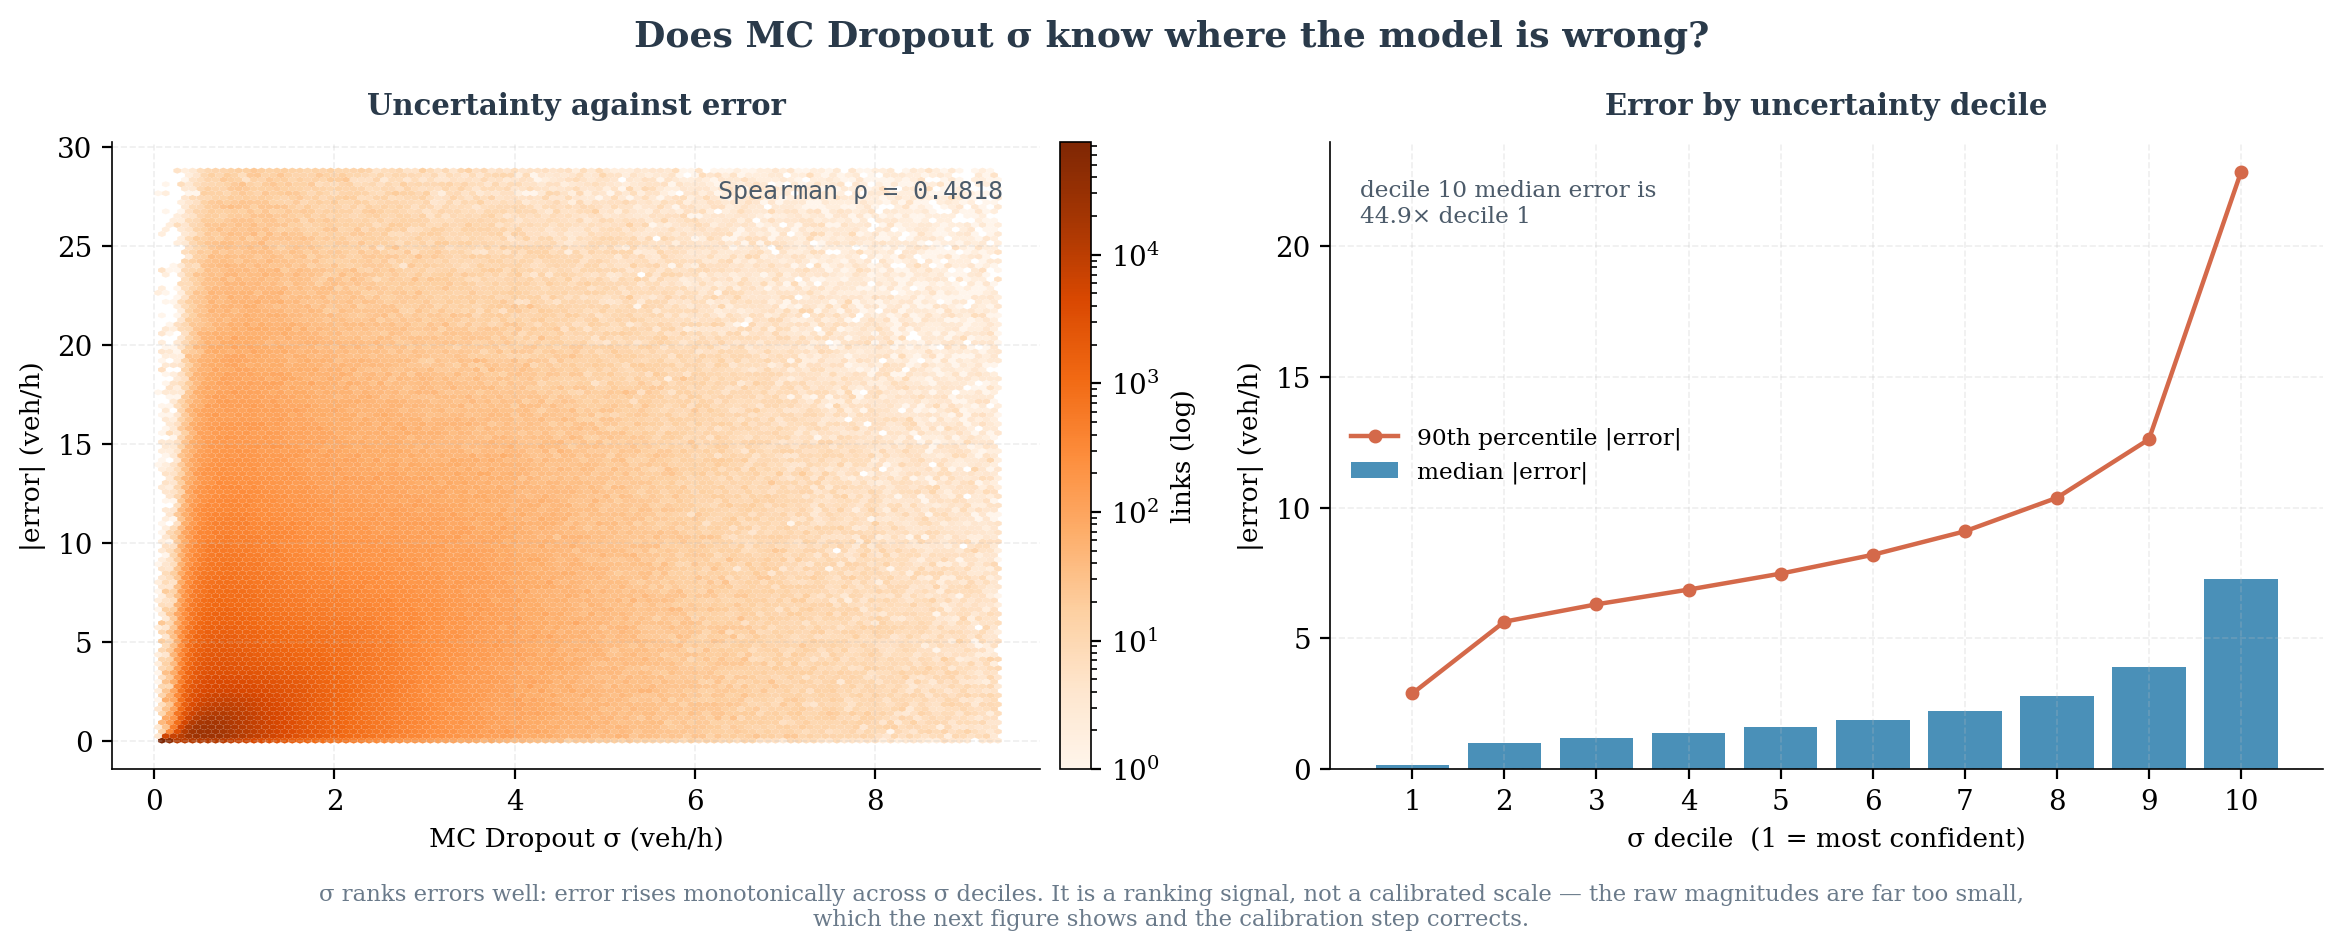
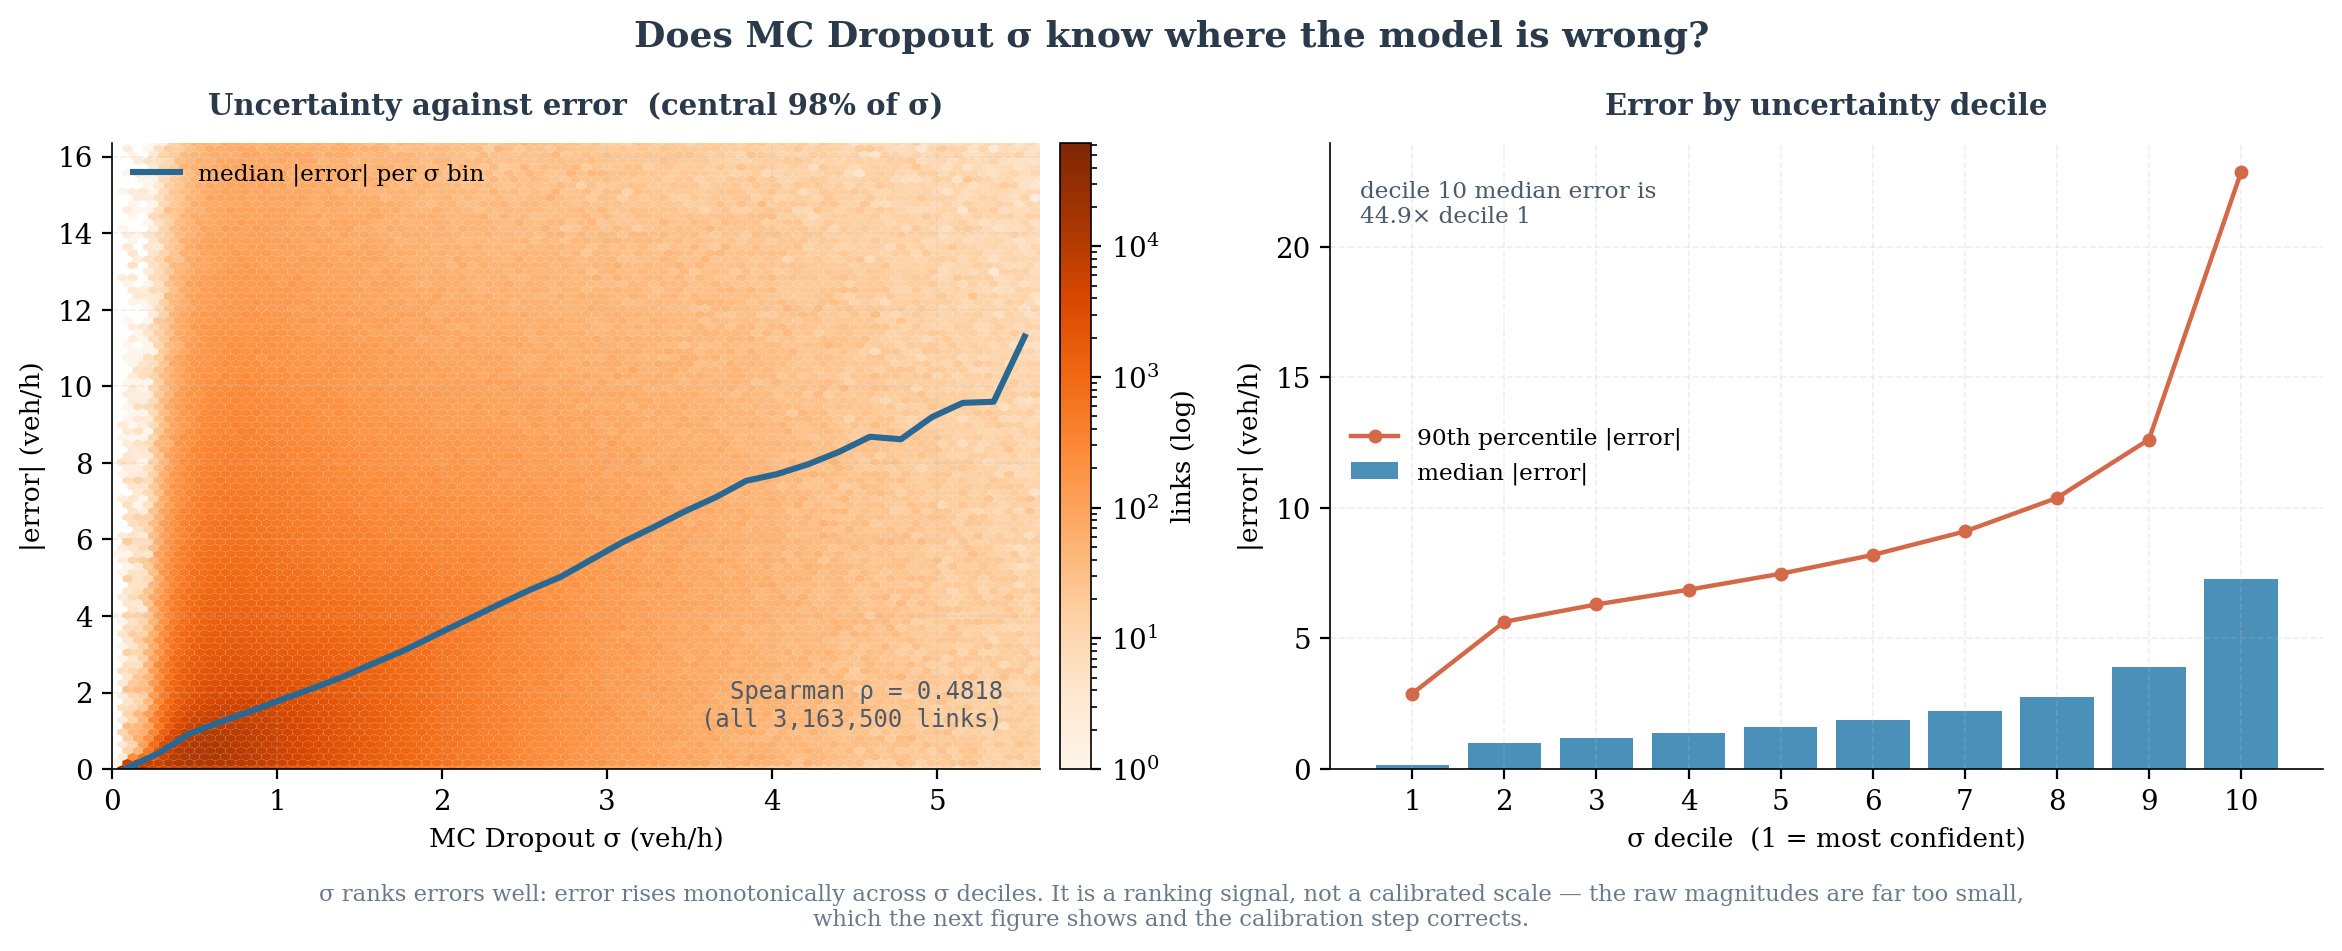
fix: make the uncertainty-vs-error panel legible
The hexbin was clipped at the 99.5th percentile of sigma, which left most of
the panel as a washed-out low-density field and showed little beyond 'there
is a positive relationship'.

Clipped to the central 98% of sigma and 96% of error so the dense region
fills the panel, and overlaid a binned median. The near-linear rise of median
error with sigma is now visible directly rather than implied by the
correlation coefficient. Spearman rho is still computed over all 3,163,500
links and the annotation says so.

diff --git a/scripts/figure_generation/generate_results_figures.py b/scripts/figure_generation/generate_results_figures.py
@@ -128,14 +128,27 @@ def fig_sigma_vs_error(t, pmc, sig):
     fig, axes = plt.subplots(1, 2, figsize=(11.8, 4.4))
 
     ax = axes[0]
-    xl, yl = np.percentile(sig, 99.5), np.percentile(err, 99)
-    hb = ax.hexbin(sig, err, gridsize=110, extent=(0, xl, 0, yl), bins="log",
+    # Clip to the bulk of the joint distribution: the long thin tails otherwise
+    # leave most of the panel empty and wash the dense region out.
+    xl, yl = np.percentile(sig, 98), np.percentile(err, 96)
+    hb = ax.hexbin(sig, err, gridsize=90, extent=(0, xl, 0, yl), bins="log",
                    cmap="Oranges", mincnt=1, linewidths=0)
+    # Binned median makes the trend legible rather than merely present.
+    edges = np.linspace(0, xl, 31)
+    idx = np.clip(np.digitize(sig, edges) - 1, 0, len(edges) - 2)
+    cx = 0.5 * (edges[:-1] + edges[1:])
+    med = np.array([np.median(err[idx == b]) if (idx == b).any() else np.nan
+                    for b in range(len(cx))])
+    ax.plot(cx, med, color=COLORS["blue_dk"], lw=2.2, label="median |error| per σ bin")
+    ax.legend(fontsize=8.4, loc="upper left")
+    ax.set_xlim(0, xl); ax.set_ylim(0, yl)
     ax.set_xlabel("MC Dropout σ (veh/h)")
     ax.set_ylabel("|error| (veh/h)")
-    ax.set_title("Uncertainty against error", fontweight="600", color=COLORS["dgray"])
-    ax.text(0.96, 0.94, f"Spearman ρ = {rho:.4f}", transform=ax.transAxes,
-            ha="right", va="top", fontsize=9, family="monospace", color=COLORS["slate"])
+    ax.set_title("Uncertainty against error  (central 98% of σ)",
+                 fontweight="600", color=COLORS["dgray"])
+    ax.text(0.96, 0.06, f"Spearman ρ = {rho:.4f}\n(all 3,163,500 links)",
+            transform=ax.transAxes, ha="right", va="bottom", fontsize=8.6,
+            family="monospace", color=COLORS["slate"])
     plt.colorbar(hb, ax=ax, fraction=0.045, pad=0.02, label="links (log)")
 
     ax = axes[1]
